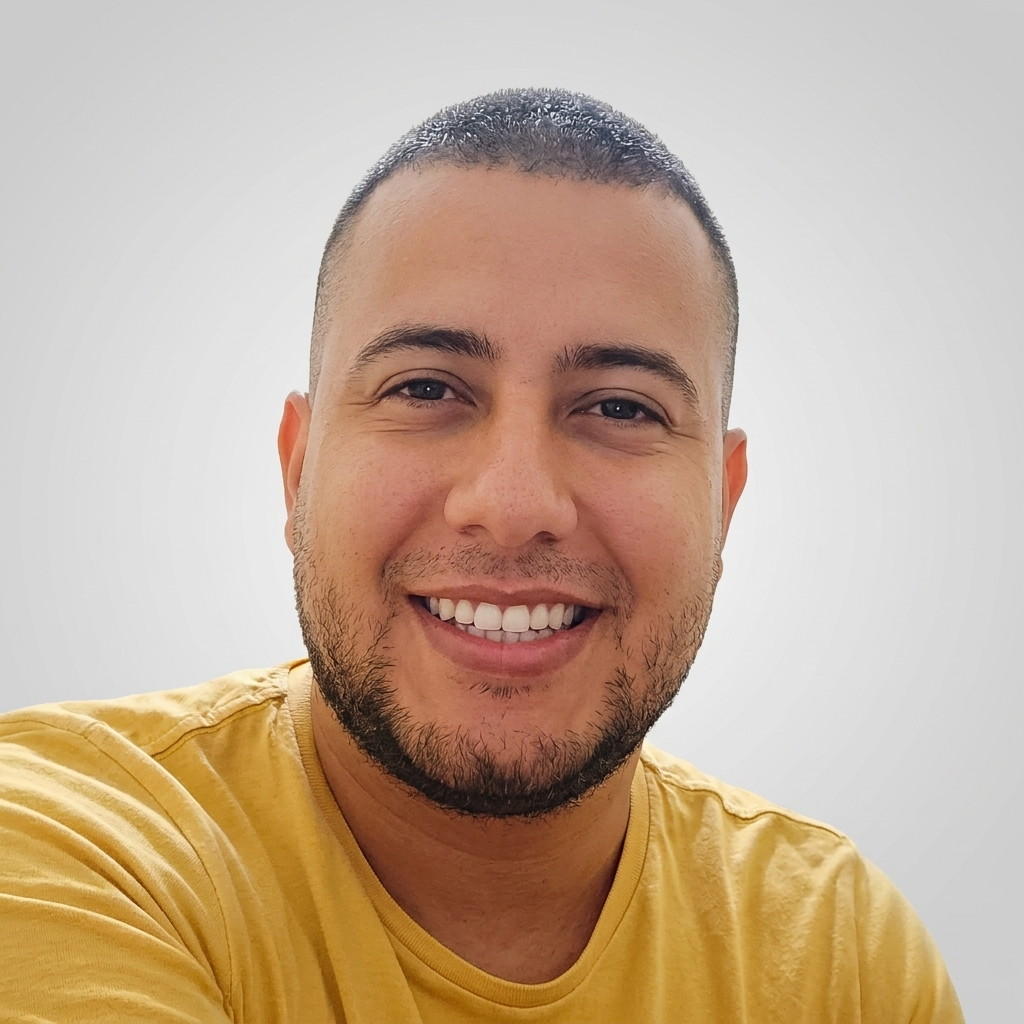
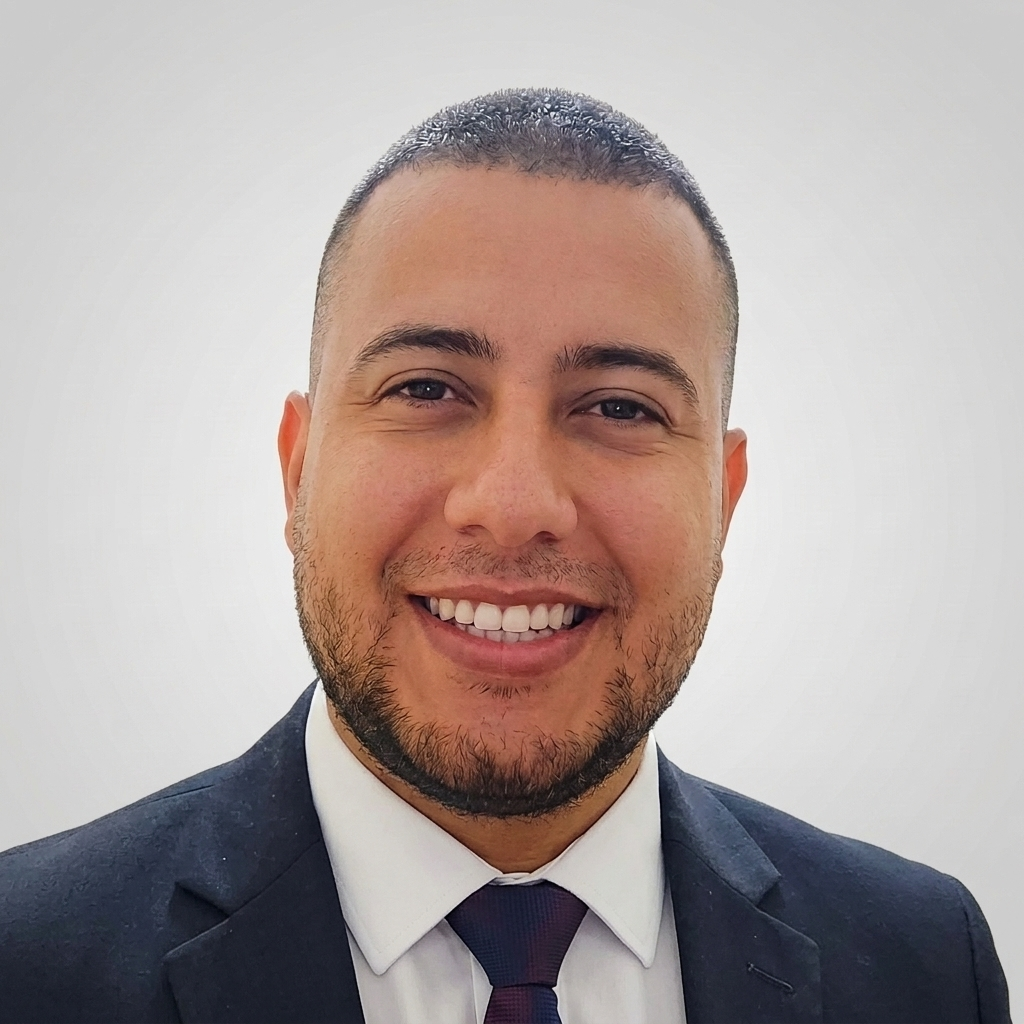
new photos and publications edit

diff --git a/app/ramas/time-reverse-imaging/page.tsx b/app/ramas/time-reverse-imaging/page.tsx
@@ -560,7 +560,7 @@ export default function TimeReverseImaging() {
                     <div className="md:w-3/4">
                       <div className="mb-3">
                         <span className="text-xs font-medium text-muted-foreground bg-muted px-2 py-1 rounded">
-                          ArXiv • 2025
+                          ICIP • 2026
                         </span>
                       </div>
                       <a 
@@ -572,7 +572,7 @@ export default function TimeReverseImaging() {
                         </h3>
                       </a>
                       <p className="text-muted-foreground mb-3">
-                        Kebin Contreras, Luis Toscano-Palomino, Mauro Dalla, Jorge Bacca
+                        Kebin Contreras, Luis Toscano-Palomino, Mauro Dalla Mura, Jorge Bacca
                       </p>
                       <p className="text-foreground leading-relaxed mb-4 text-sm">
                         {t.paperPresents}
